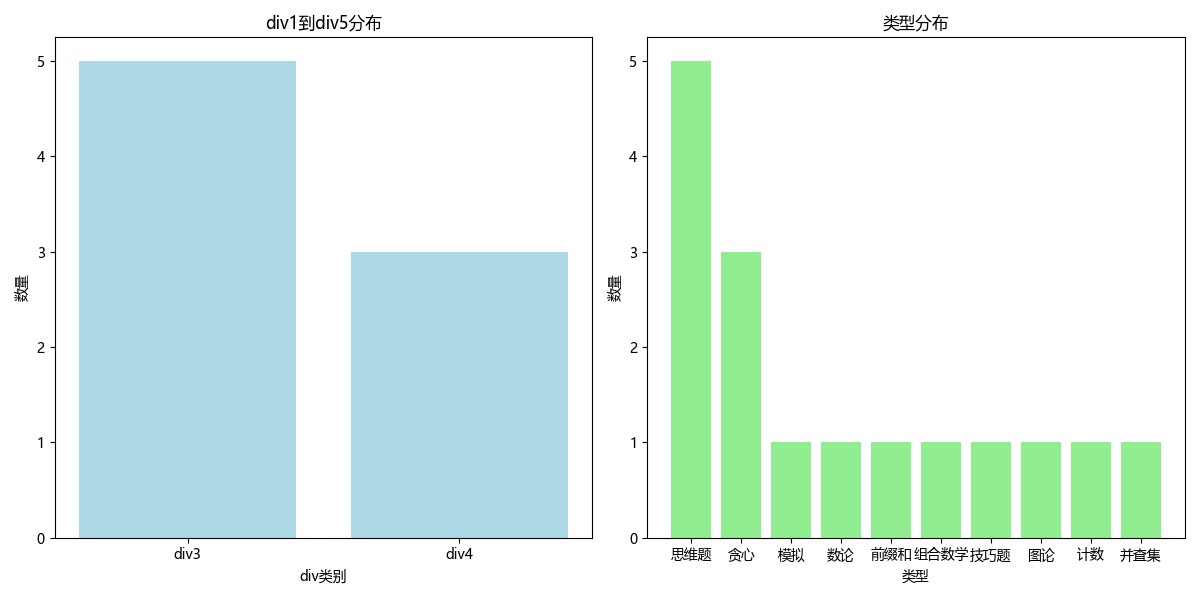
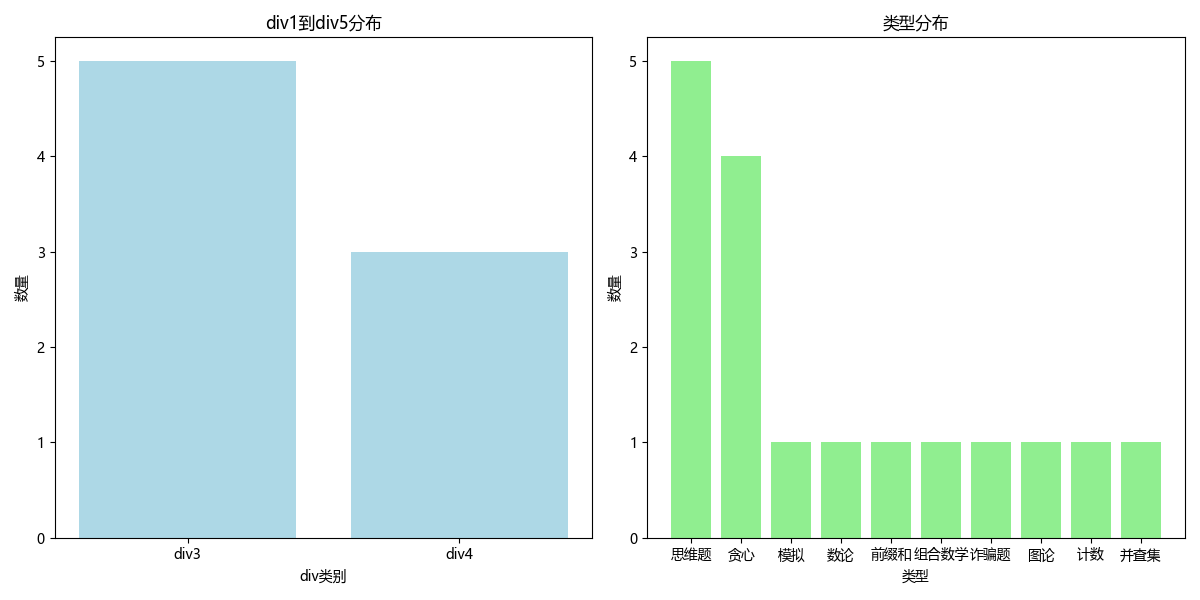
e

Changed region(s): [[0.5858, 0.24, 0.6475, 0.42], [0.8017, 0.9, 0.8633, 0.96]]

diff --git a/算法/周赛补题/周赛71/div4_{思维题;诈骗题;贪心}_C.md b/算法/周赛补题/周赛71/div4_{思维题;诈骗题;贪心}_C.md
@@ -1,0 +1,39 @@
+# [转到题目](https://ac.nowcoder.com/acm/contest/97443/C)
+
+这种题目，看起来很像某种算法题，但是实际上就是一个显然性质的思维推导
+瓶颈之处就是板子题目做多了，就很难想到这种题目，不容易从圈中跳出来。
+## **何解?**
+- 深度理解某些算法的核心性质，没有学精的算法**不要考虑**，因为这种思维会让你陷入思维陷阱
+# 思路 
+- 我要求的是最小的 循环节"数",然后还知道，可以插入任意字符，以找到这个最小的循环节。
+- 首先我们要看一下，什么是循环节。
+  - 循环节，循环节的构成一般是什么呢？abc这种?abca呢?
+    - 他们都是符合循环节的定义.但是你要知道的是你现在的操作"数"是无穷的
+    - 而你要找到最小的循环节 abca这种可能吗？
+      - 它含有相同字符就意味着，它还是可以分割的，意味着它不是最小的。
+      - 所以最小的循环节数意味着他不能含有相同字符。
+      - 恰好没有重复元素是符合条件的,那能不能更小呢？
+        - 如果一个串已经不重复字符了，就不能让循环节更小了。因为这个题目是只能插入不能删除的，连相同都不相同，更不可能分离成两个循环节，因为一定会导致不成立
+        - 所以，最小的不重复字符循环节 就是最长的不重复字符子串。
+- 所以，我们可以先求出这个串的最长不重复子串，就是答案
+- 而我们再此实际上分析的还不是很准确，由于它不能删除，也就是导致，这个字符串中不同字符的数量就决定着最长不重复子串的长度。
+  
+### 参考代码
+```cpp
+#include <bits/stdc++.h>
+using namespace std;
+string s;
+int cnt[100];//这里能容纳26 *2 个位置就可以，我开的100
+int res=0;
+int main(){
+    cin>>s;
+    for (auto x:s){
+        cnt[x-'A']++;
+    }
+    for (int i = 0;i<100;i++){
+        res += (cnt[i]>0);
+    }
+    cout<<res;
+    return 0;
+}
+````
